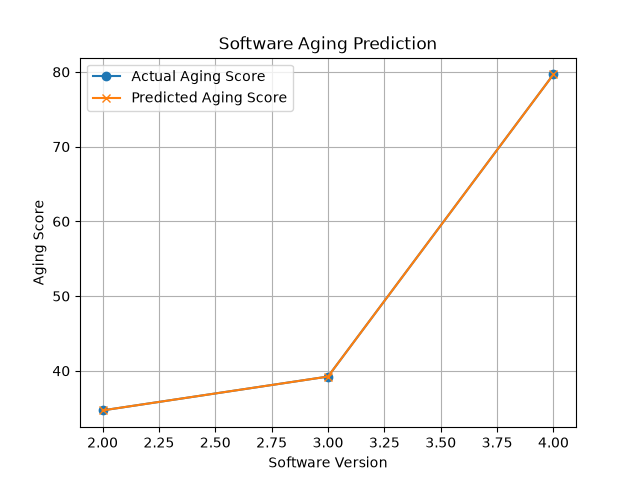
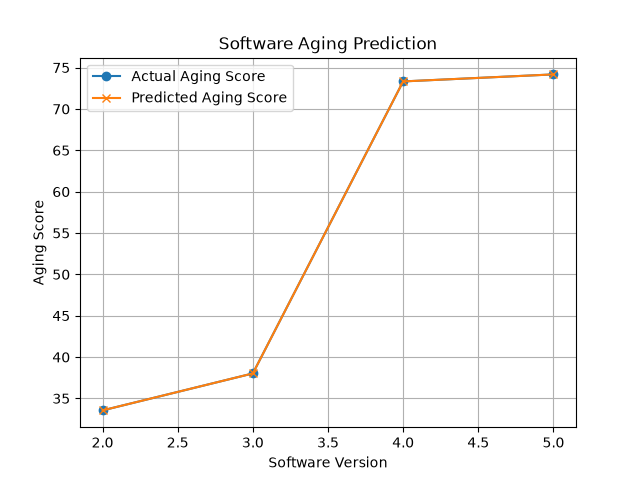
Add maximum value calculation

diff --git a/sample_code.py b/sample_code.py
@@ -58,3 +58,14 @@ def calculate_average(numbers):
         return total / len(numbers)
 
     return 0
+def find_maximum(numbers):
+    if len(numbers) == 0:
+        return 0
+
+    maximum = numbers[0]
+
+    for number in numbers:
+        if number > maximum:
+            maximum = number
+
+    return maximum
